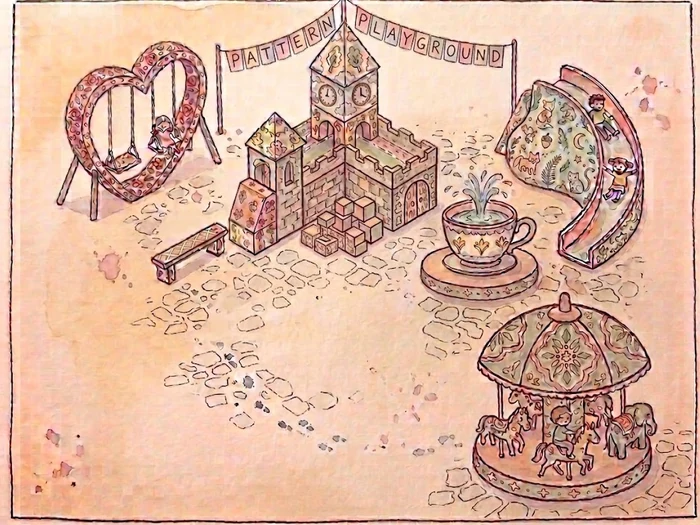
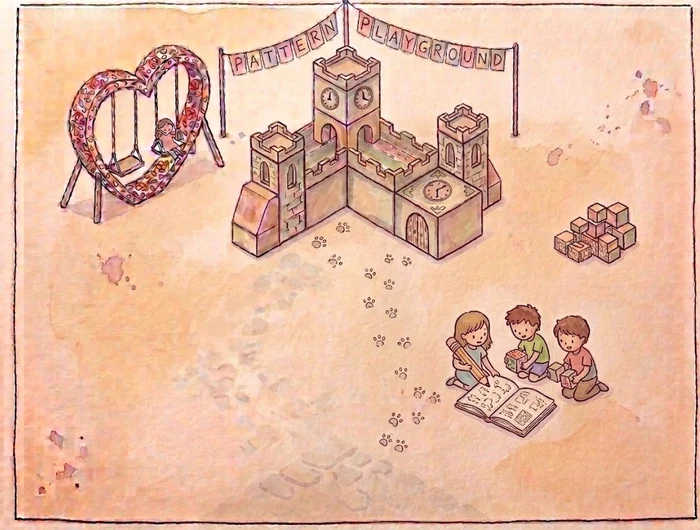
Simplify the Pattern Playground illustration
Replaced with a less busy version (heart swing, block castle, three
kids reading a pattern book - dropped the fountain teacup, slide and
carousel). Title-icon now crops the heart swing instead of the
carousel, which no longer exists in this version. Emoji switched
from 🎠 to 🏰 to match the castle, now the dominant element.

Claude-Session: https://claude.ai/code/session_01VHQYNvbsyLAtKZNN89wX6x

diff --git a/pattern-playground.html b/pattern-playground.html
@@ -44,7 +44,7 @@
 
   <section class="app-hero align-top">
     <div>
-      <p class="badge" style="background: color-mix(in oklab, var(--lilac) 55%, transparent);">🎠 turn loose designs into a proper collection</p>
+      <p class="badge" style="background: color-mix(in oklab, var(--lilac) 55%, transparent);">🏰 turn loose designs into a proper collection</p>
       <h1>Pattern Playground</h1>
       <p class="lede">Every collection needs a hero, a few sidekicks and some quiet blenders. This one waves a wand over your motifs and hands you a whole coordinated family.</p>
       <div class="cta-row">
@@ -52,7 +52,7 @@
         <a href="index.html#the-apps" class="back-link">back to the collection</a>
       </div>
     </div>
-    <img class="hero-illustration wiggle shadowed" src="assets/pattern-playground-hero.webp" width="700" height="525" alt="Hand-drawn whimsical playground with a heart-shaped swing, a castle built from blocks, a fountain teacup, a slide and a carousel, under a 'Pattern Playground' banner" />
+    <img class="hero-illustration wiggle shadowed" src="assets/pattern-playground-hero.webp" width="700" height="530" alt="Hand-drawn whimsical playground with a heart-shaped swing, a castle built from blocks and three kids reading a pattern book, under a 'Pattern Playground' banner" />
   </section>
 
   <section class="page-section">

diff --git a/index.html b/index.html
@@ -145,7 +145,7 @@
     <article class="doodle-card app-card" style="background: color-mix(in oklab, var(--lilac) 45%, var(--card)); transform: rotate(0.7deg);">
       <div class="app-top">
         <div class="order-2">
-          <p class="app-eyebrow">🎠 turn loose designs into a proper collection</p>
+          <p class="app-eyebrow">🏰 turn loose designs into a proper collection</p>
           <div class="title-row">
             <img class="title-icon" src="assets/pattern-playground-icon.webp" alt="" aria-hidden="true" />
             <h3 class="app-name">Pattern Playground</h3>
@@ -161,7 +161,7 @@
           </div>
         </div>
         <div class="app-image-frame">
-          <img src="assets/pattern-playground-hero.webp" width="700" height="525" loading="lazy" alt="Hand-drawn whimsical playground with a heart-shaped swing, a castle built from blocks, a fountain teacup, a slide and a carousel, under a 'Pattern Playground' banner" />
+          <img src="assets/pattern-playground-hero.webp" width="700" height="530" loading="lazy" alt="Hand-drawn whimsical playground with a heart-shaped swing, a castle built from blocks and three kids reading a pattern book, under a 'Pattern Playground' banner" />
         </div>
       </div>
     </article>
